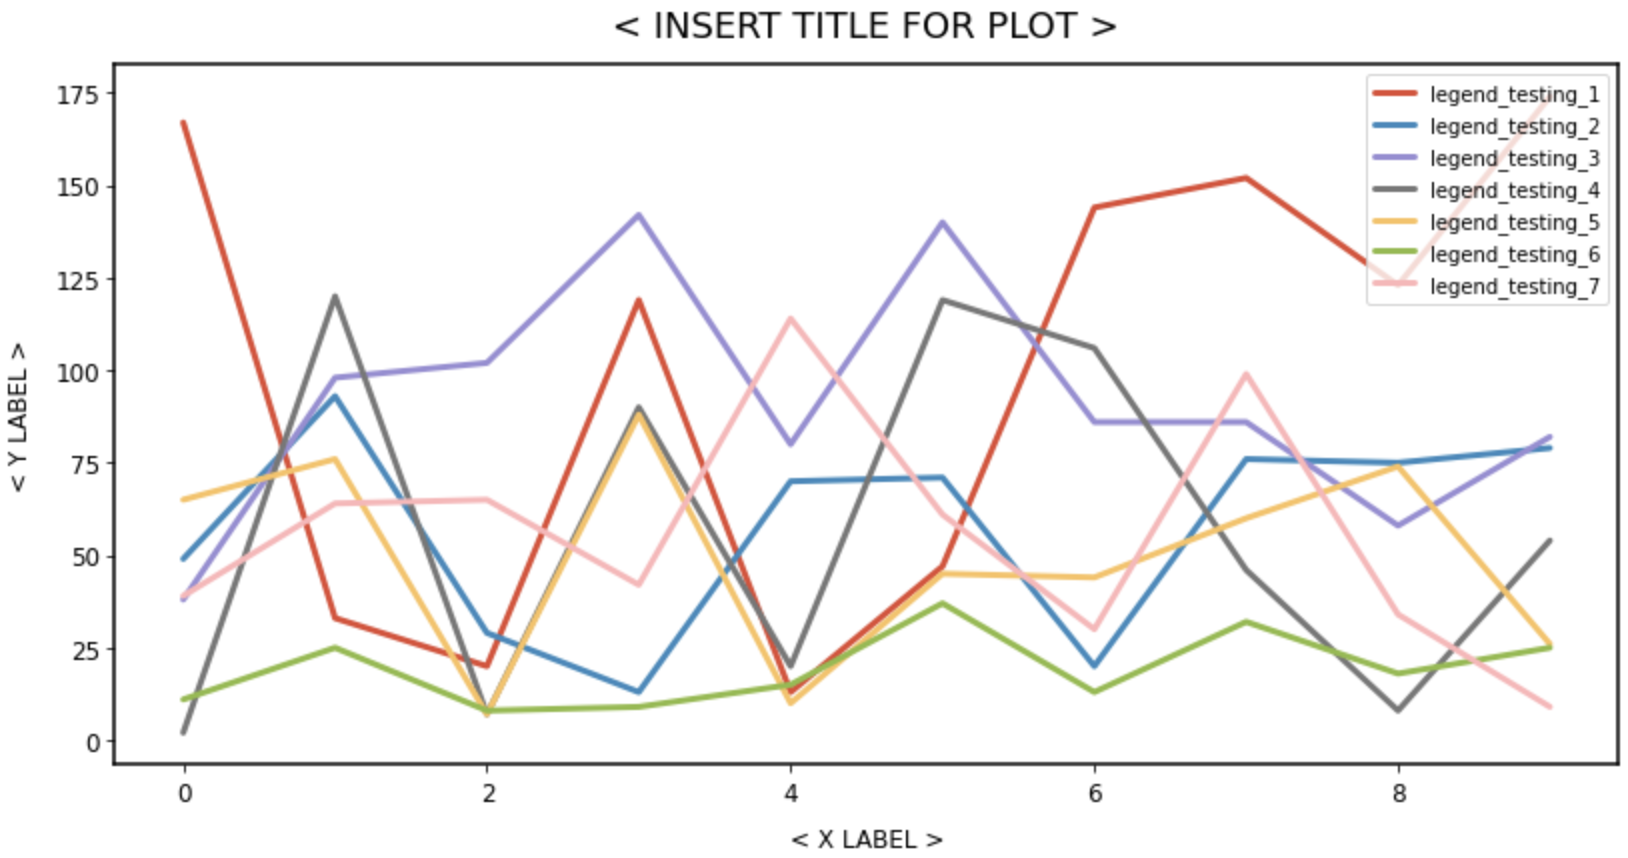
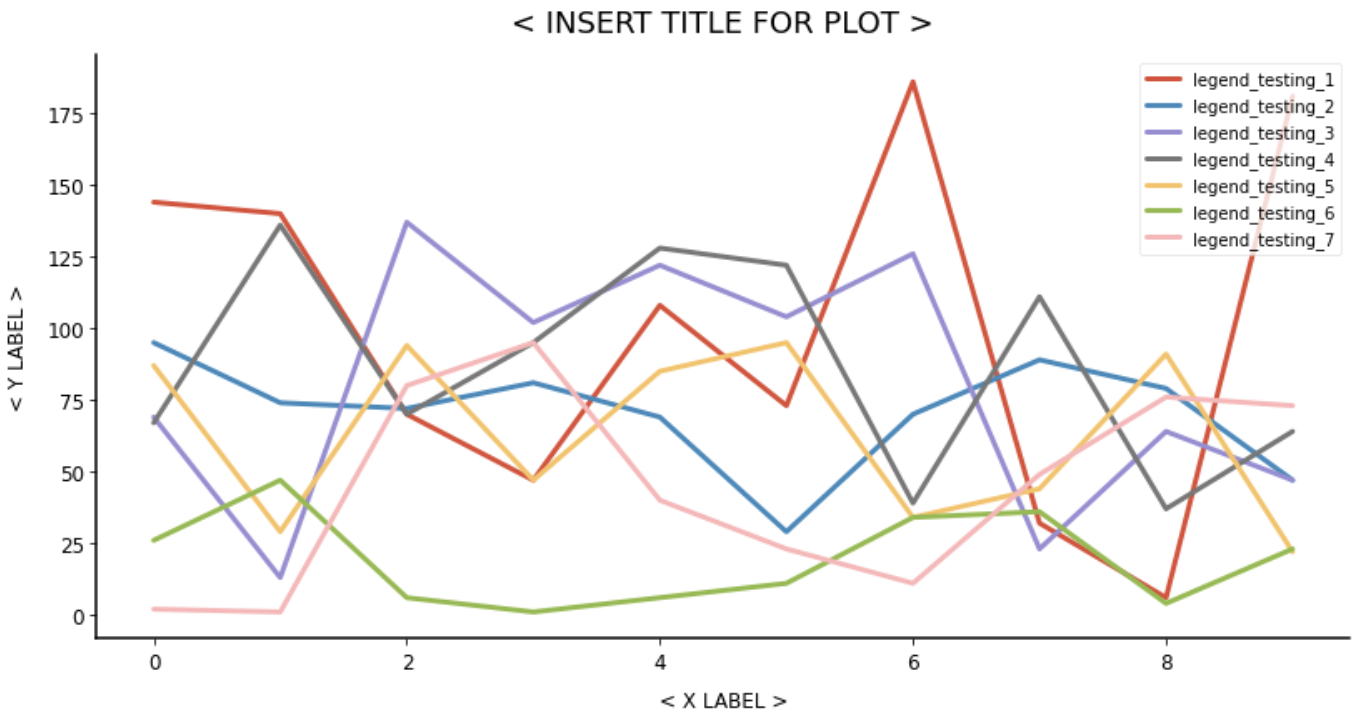
removed top and right borders, updated readme

diff --git a/README.md b/README.md
@@ -2,7 +2,10 @@
 
 Style sheet created to produce consistent plots in all of my projects using Python package [Matplotlib](https://github.com/matplotlib/matplotlib).
 
-## Example Output:
-Example output of a line chart using the style sheet:
+## Plot Examples:
 
+### Line Chart:
 ![Example Image](imgs/line_plot_example.png)
+
+### Bar Chart:
+![Example Image](imgs/bar_plot_example.png)
